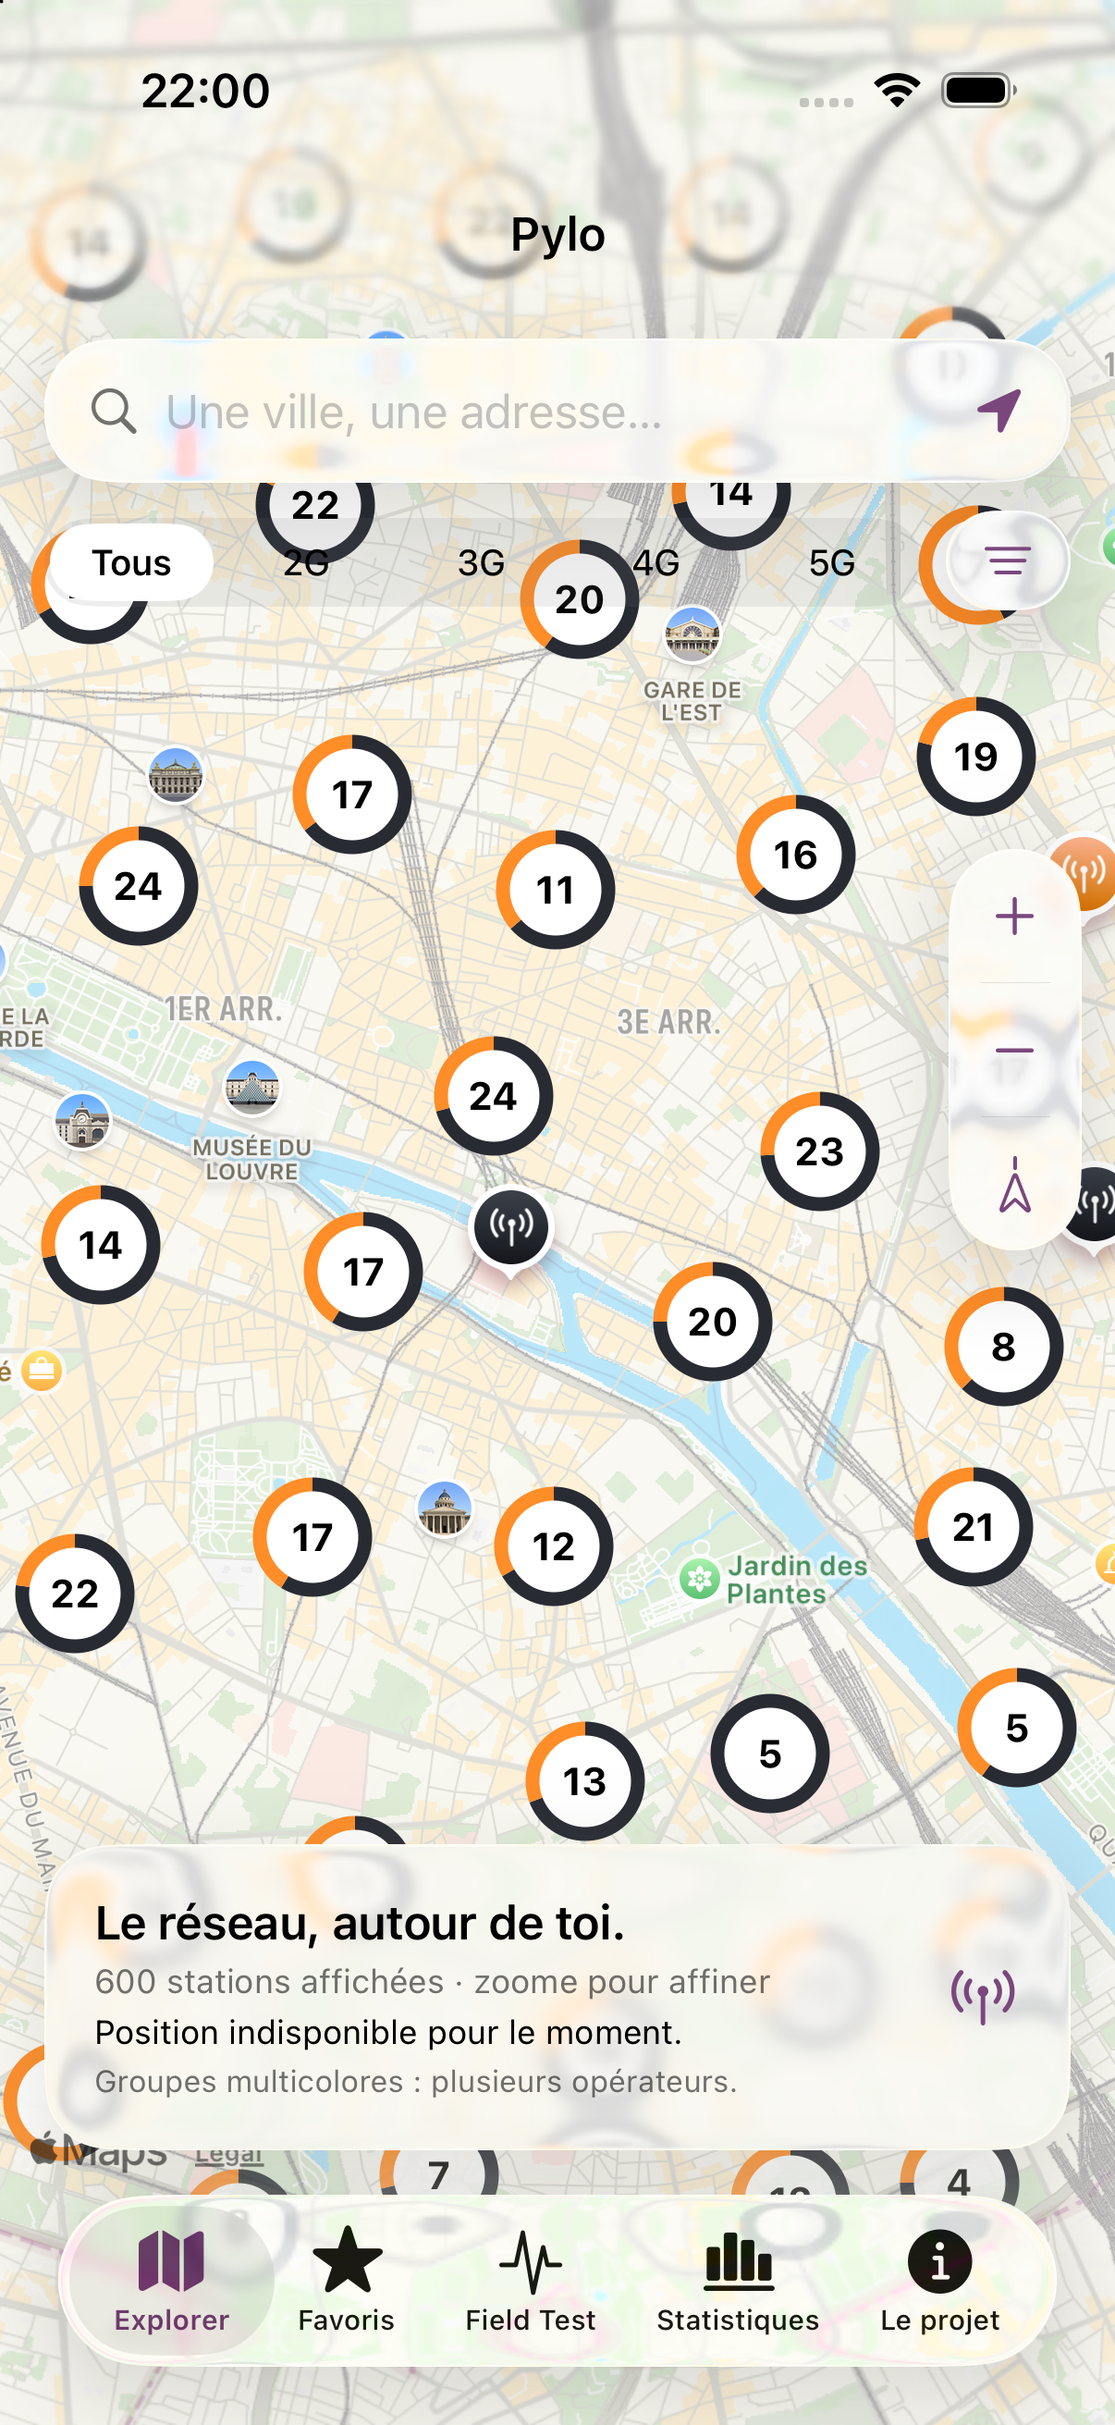
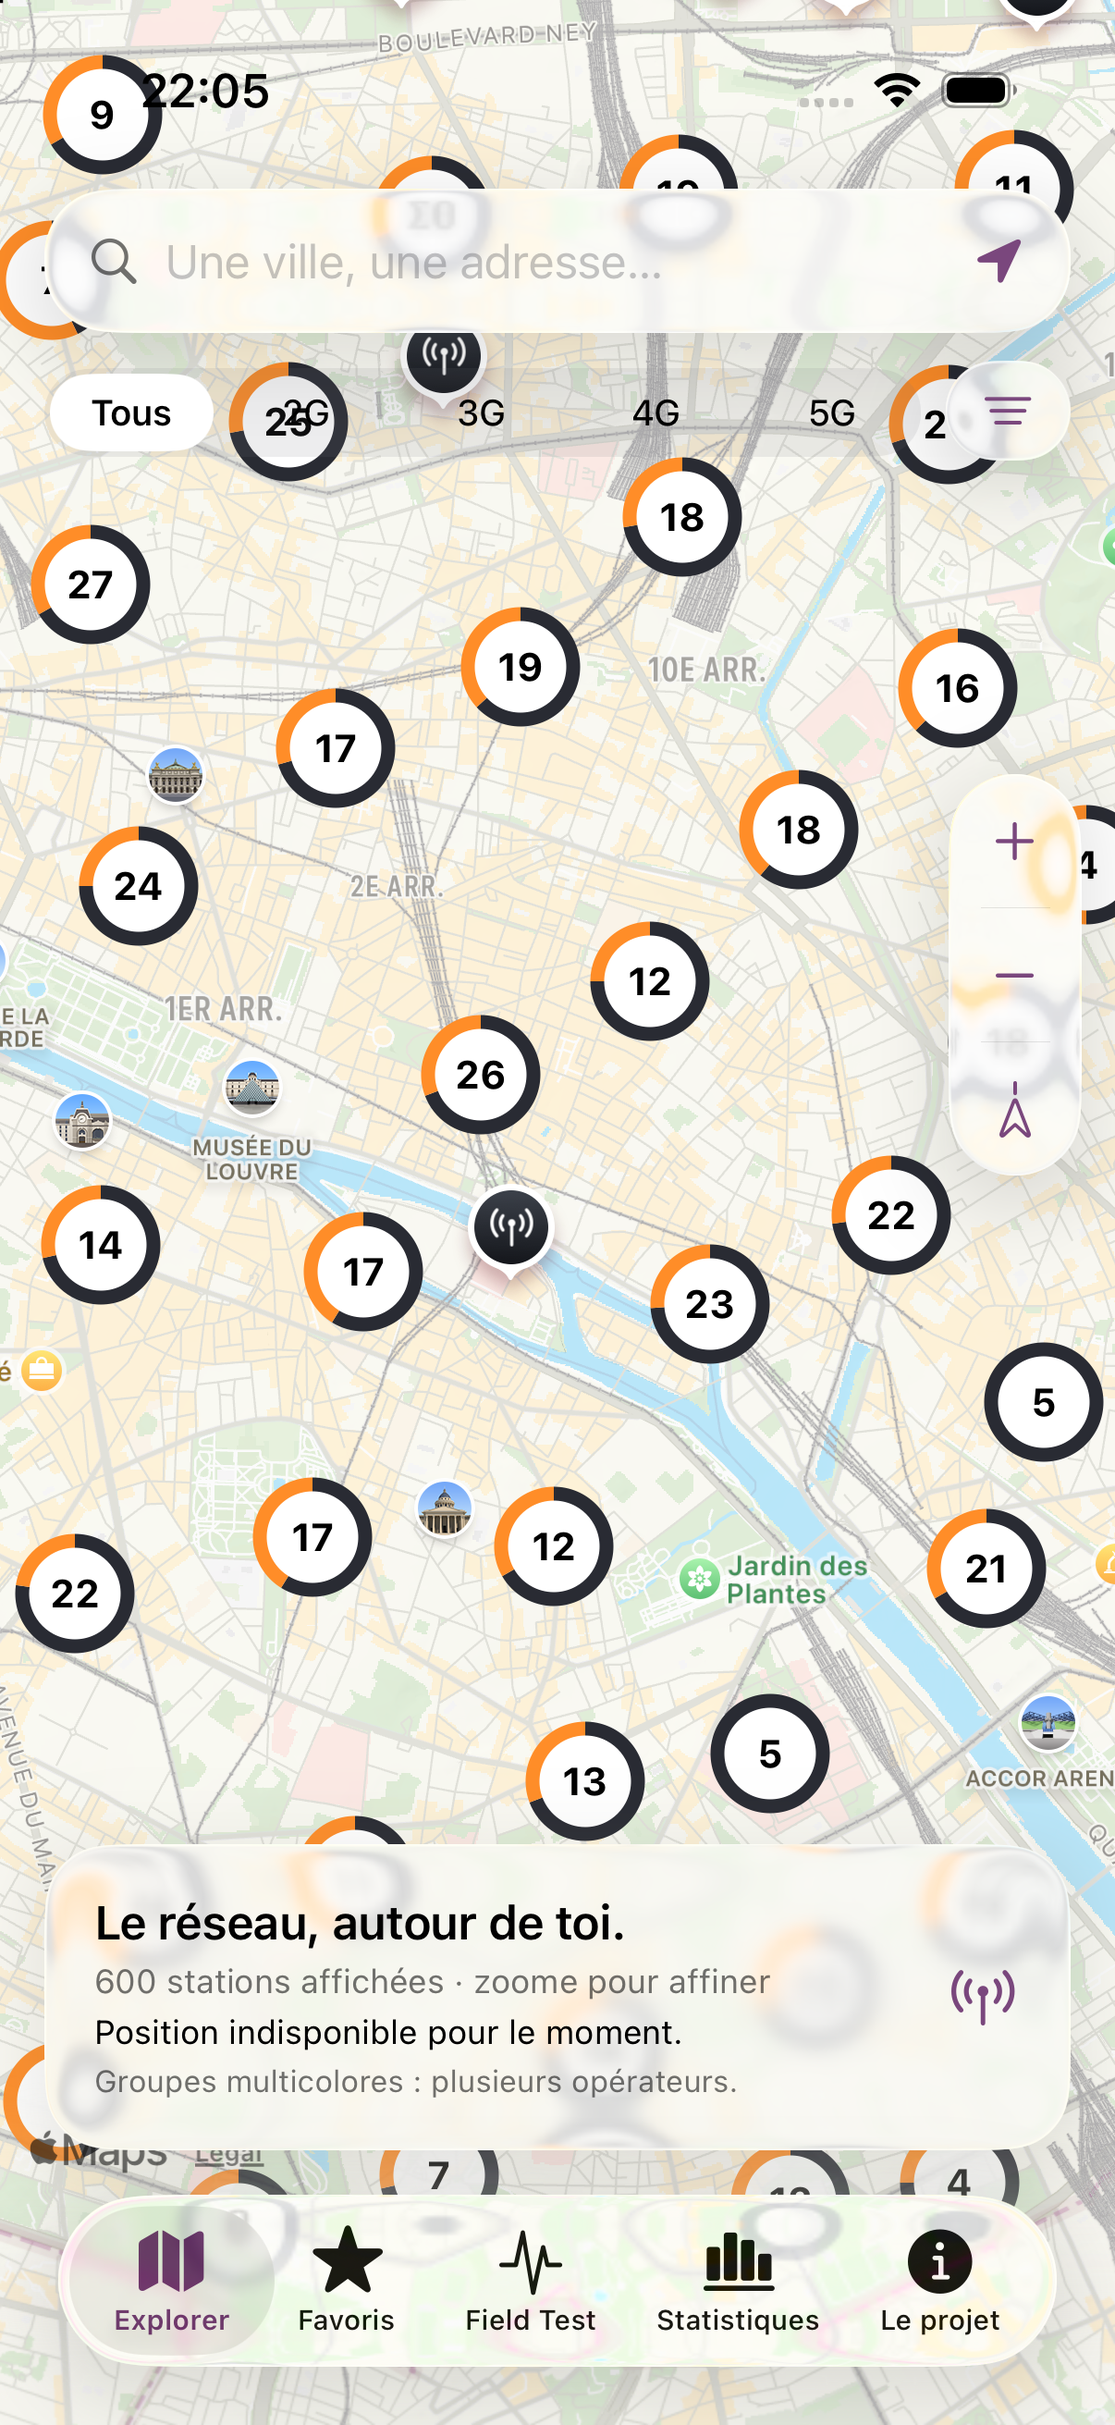
Retirer le bandeau de carte et ancrer les orientations aux repères

diff --git a/App/NativeAntennaMap.swift b/App/NativeAntennaMap.swift
@@ -28,6 +28,16 @@ struct NativeAntennaMap: UIViewRepresentable {
         map.isZoomEnabled = true; map.isScrollEnabled = true; map.isRotateEnabled = true; map.isPitchEnabled = true
         map.showsUserLocation = true; map.showsCompass = true; map.showsScale = true
         map.preferredConfiguration = MKStandardMapConfiguration(elevationStyle: .flat, emphasisStyle: .muted)
+        let directionsLayer = OrientationLayer()
+        directionsLayer.translatesAutoresizingMaskIntoConstraints = false
+        map.addSubview(directionsLayer)
+        NSLayoutConstraint.activate([
+            directionsLayer.leadingAnchor.constraint(equalTo: map.leadingAnchor),
+            directionsLayer.trailingAnchor.constraint(equalTo: map.trailingAnchor),
+            directionsLayer.topAnchor.constraint(equalTo: map.topAnchor),
+            directionsLayer.bottomAnchor.constraint(equalTo: map.bottomAnchor)
+        ])
+        context.coordinator.directionsLayer = directionsLayer
         map.register(MKMarkerAnnotationView.self, forAnnotationViewWithReuseIdentifier: "station")
         map.register(MKAnnotationView.self, forAnnotationViewWithReuseIdentifier: MKMapViewDefaultClusterAnnotationViewReuseIdentifier)
         return map
@@ -45,7 +55,7 @@ struct NativeAntennaMap: UIViewRepresentable {
     static func dismantleUIView(_ map: MKMapView, coordinator: Coordinator) {
         coordinator.refreshTask?.cancel()
         map.delegate = nil
-        map.removeOverlays(map.overlays)
+        coordinator.directionsLayer?.removeFromSuperview()
     }
     @MainActor final class Coordinator: NSObject, MKMapViewDelegate {
         var parent: NativeAntennaMap
@@ -54,8 +64,7 @@ struct NativeAntennaMap: UIViewRepresentable {
         var commandID: UUID?
         var moving = false
         var refreshTask: Task<Void, Never>?
-        var orientationOverlay: OrientationOverlay?
-        var renderedArrows: [OrientationArrow] = []
+        weak var directionsLayer: OrientationLayer?
         var imageCache: [String: UIImage] = [:]
         init(_ parent: NativeAntennaMap) { self.parent = parent }
         func applyStations(_ map: MKMapView) {
@@ -72,8 +81,8 @@ struct NativeAntennaMap: UIViewRepresentable {
         func scheduleDirections(_ map: MKMapView) {
             refreshTask?.cancel()
             if !parent.showDirections {
-                if let orientationOverlay { map.removeOverlay(orientationOverlay) }
-                orientationOverlay = nil; renderedArrows = []
+                directionsLayer?.arrows = []
+                directionsLayer?.isHidden = true
                 return
             }
             refreshTask = Task { @MainActor [weak self, weak map] in
@@ -86,22 +95,29 @@ struct NativeAntennaMap: UIViewRepresentable {
                     return view.superview != nil && !view.isHidden && view.alpha > 0.1
                 }.map(\.station)
                 let arrows = OrientationPlan.make(stations: visible, directions: self.parent.directions, latitude: map.centerCoordinate.latitude, longitude: map.centerCoordinate.longitude)
-                if arrows == self.renderedArrows, let overlay = self.orientationOverlay, overlay.boundingMapRect.contains(map.visibleMapRect) {
-                    map.renderer(for: overlay)?.alpha = 1
-                    return
+                guard let layer = self.directionsLayer else { return }
+                layer.arrows = arrows.compactMap { arrow in
+                    guard let annotation = self.annotations[arrow.stationID], let view = map.view(for: annotation) else { return nil }
+                    // Anchor to the round head of the marker, not the pin tip underneath it.
+                    let anchor = view.convert(CGPoint(x: view.bounds.midX, y: min(view.bounds.midY, view.bounds.minY + view.bounds.width / 2)), to: layer)
+                    let coordinate = annotation.coordinate
+                    let radians = arrow.azimuth * .pi / 180
+                    let reference = CLLocationCoordinate2D(latitude: coordinate.latitude + cos(radians)*0.001, longitude: coordinate.longitude + sin(radians)*0.001/max(0.05,cos(coordinate.latitude * .pi/180)))
+                    let origin = map.convert(coordinate, toPointTo: layer)
+                    let projected = map.convert(reference, toPointTo: layer)
+                    let dx = projected.x-origin.x, dy = projected.y-origin.y
+                    let magnitude = hypot(dx,dy)
+                    guard magnitude.isFinite, magnitude > 0 else { return nil }
+                    let ux = dx/magnitude, uy = dy/magnitude
+                    return ScreenOrientation(start: CGPoint(x: anchor.x+ux*21,y: anchor.y+uy*21), end: CGPoint(x: anchor.x+ux*51,y: anchor.y+uy*51), color: UIColor(Palette.operatorColor(arrow.operatorName)))
                 }
-                if let old = self.orientationOverlay { map.removeOverlay(old) }
-                self.renderedArrows = arrows
-                self.orientationOverlay = nil
-                guard !arrows.isEmpty else { return }
-                let overlay = OrientationOverlay(arrows: arrows, rect: map.visibleMapRect)
-                self.orientationOverlay = overlay
-                map.addOverlay(overlay, level: .aboveRoads)
+                layer.isHidden = false
+                map.bringSubviewToFront(layer)
             }
         }
         func mapView(_ mapView: MKMapView, regionWillChangeAnimated animated: Bool) {
             moving = true; refreshTask?.cancel()
-            if let orientationOverlay { mapView.renderer(for: orientationOverlay)?.alpha = 0 }
+            directionsLayer?.isHidden = true
         }
         func mapView(_ mapView: MKMapView, regionDidChangeAnimated animated: Bool) {
             moving = false
@@ -137,10 +153,6 @@ struct NativeAntennaMap: UIViewRepresentable {
             parent.onSelection(members.sorted { $0.operatorName < $1.operatorName })
             mapView.deselectAnnotation(annotation, animated: false)
         }
-        func mapView(_ mapView: MKMapView, rendererFor overlay: any MKOverlay) -> MKOverlayRenderer {
-            guard let orientations = overlay as? OrientationOverlay else { return MKOverlayRenderer(overlay: overlay) }
-            return OrientationRenderer(overlay: orientations)
-        }
         private func clusterImage(_ members: [Station]) -> UIImage {
             let groups = Dictionary(grouping: members, by: \.operatorName).mapValues(\.count)
             let names = groups.keys.sorted()
@@ -167,39 +179,43 @@ struct NativeAntennaMap: UIViewRepresentable {
     }
 }
 
-/// One lightweight layer; arrow length stays constant on screen instead of expanding on zoom.
-final class OrientationOverlay: NSObject, MKOverlay {
-    let arrows: [OrientationArrow]
-    let boundingMapRect: MKMapRect
-    var coordinate: CLLocationCoordinate2D { MKMapPoint(x: boundingMapRect.midX, y: boundingMapRect.midY).coordinate }
-    init(arrows: [OrientationArrow], rect: MKMapRect) { self.arrows = arrows; boundingMapRect = rect.insetBy(dx: -rect.width * 0.1, dy: -rect.height * 0.1) }
+/// Screen-space paths avoid map tile scaling and stay attached to the actual marker head.
+struct ScreenOrientation {
+    let start: CGPoint
+    let end: CGPoint
+    let color: UIColor
 }
-final class OrientationRenderer: MKOverlayRenderer {
-    private let arrows: [OrientationArrow]
-    private let colors: [CGColor]
-    init(overlay: OrientationOverlay) {
-        arrows = overlay.arrows
-        colors = overlay.arrows.map { UIColor(Palette.operatorColor($0.operatorName)).cgColor }
-        super.init(overlay: overlay)
+final class OrientationLayer: UIView {
+    var arrows: [ScreenOrientation] = [] { didSet { setNeedsDisplay() } }
+    init() {
+        super.init(frame: .zero)
+        backgroundColor = .clear; isOpaque = false; isUserInteractionEnabled = false
+        isAccessibilityElement = false; isHidden = true
+        contentMode = .redraw
     }
-    override func draw(_ mapRect: MKMapRect, zoomScale: MKZoomScale, in context: CGContext) {
-        guard zoomScale.isFinite, zoomScale > 0 else { return }
-        let scale = 1 / zoomScale
-        context.setLineWidth(1.6 * scale)
+    required init?(coder: NSCoder) { fatalError("init(coder:) has not been implemented") }
+    override func draw(_ rect: CGRect) {
+        guard let context = UIGraphicsGetCurrentContext() else { return }
         context.setLineCap(.round); context.setLineJoin(.round)
-        let length = 30 * scale, head = 5 * scale, inset = 10 * scale
-        for (index, arrow) in arrows.enumerated() {
-            let origin = point(for: MKMapPoint(CLLocationCoordinate2D(latitude: arrow.latitude, longitude: arrow.longitude)))
-            let radians = arrow.azimuth * .pi / 180
-            let dx = sin(radians), dy = -cos(radians)
-            let start = CGPoint(x: origin.x + dx * inset, y: origin.y + dy * inset)
-            let end = CGPoint(x: start.x + dx * length, y: start.y + dy * length)
-            context.setStrokeColor(colors[index])
-            context.move(to: start); context.addLine(to: end)
-            context.move(to: CGPoint(x: end.x - dx * head + dy * head * 0.6, y: end.y - dy * head - dx * head * 0.6))
-            context.addLine(to: end)
-            context.addLine(to: CGPoint(x: end.x - dx * head - dy * head * 0.6, y: end.y - dy * head + dx * head * 0.6))
-            context.strokePath()
+        for arrow in arrows {
+            let dx = arrow.end.x-arrow.start.x, dy = arrow.end.y-arrow.start.y
+            let magnitude = hypot(dx,dy)
+            guard magnitude > 0 else { continue }
+            let ux = dx/magnitude, uy = dy/magnitude
+            let path = CGMutablePath()
+            path.move(to: arrow.start); path.addLine(to: arrow.end)
+            let head = CGMutablePath()
+            head.move(to: arrow.end)
+            head.addLine(to: CGPoint(x: arrow.end.x-ux*8+uy*4.5,y: arrow.end.y-uy*8-ux*4.5))
+            head.addLine(to: CGPoint(x: arrow.end.x-ux*8-uy*4.5,y: arrow.end.y-uy*8+ux*4.5))
+            head.closeSubpath()
+            context.setStrokeColor(UIColor.white.withAlphaComponent(0.95).cgColor)
+            context.setLineWidth(5)
+            context.addPath(path); context.strokePath()
+            context.addPath(head); context.strokePath()
+            context.setStrokeColor(arrow.color.cgColor); context.setLineWidth(2.5)
+            context.addPath(path); context.strokePath()
+            context.setFillColor(arrow.color.cgColor); context.addPath(head); context.fillPath()
         }
     }
 }

diff --git a/App/AppStore.swift b/App/AppStore.swift
@@ -43,11 +43,7 @@ import MapKit
             let result = try await Task.detached(priority: .userInitiated) {
                 let db = try AntennaDatabase(url: url)
                 let stations = try db.stations(south: r.center.latitude-r.span.latitudeDelta/2, north: r.center.latitude+r.span.latitudeDelta/2, west: r.center.longitude-r.span.longitudeDelta/2, east: r.center.longitude+r.span.longitudeDelta/2, generation: g, operatorName: op)
-                let directions = Dictionary(uniqueKeysWithValues: stations.sorted { a,b in
-                    pow(a.latitude-r.center.latitude,2) + pow(a.longitude-r.center.longitude,2) < pow(b.latitude-r.center.latitude,2) + pow(b.longitude-r.center.longitude,2)
-                }.prefix(36).map { station in
-                    (station.id, ((try? db.supports(for: station.id)) ?? []).first(where: { $0.id == station.supportID })?.azimuths ?? [])
-                })
+                let directions = (try? db.primaryDirections(for: stations.map(\.id))) ?? [:]
                 return (stations, directions)
             }.value
             guard request == token else { return }

diff --git a/Sources/PyloCore/Database.swift b/Sources/PyloCore/Database.swift
@@ -62,6 +62,13 @@ public final class AntennaDatabase {
             AntennaSupport(id: $0[0], height: $0[1], latitude: Double($0[2]) ?? 0, longitude: Double($0[3]) ?? 0, azimuths: Array(Set($0[4].split(separator: "|").compactMap { Double($0) }.filter { (0..<360).contains($0) })).sorted())
         }
     }
+    public func primaryDirections(for stationIDs: [String]) throws -> [String: [Double]] {
+        guard !stationIDs.isEmpty else { return [:] }
+        let ids = stationIDs.prefix(600).map(quote).joined(separator: ",")
+        return Dictionary(uniqueKeysWithValues: try rows("SELECT p.stationID,p.azimuths FROM supports p JOIN stations s ON p.stationID=s.id AND p.supportID=s.supportID WHERE s.id IN (\(ids))").map { row in
+            (row[0], Array(Set(row[1].split(separator: "|").compactMap { Double($0) }.filter { $0.isFinite && (0..<360).contains($0) })).sorted())
+        })
+    }
     public func recordComparison(previous: URL) throws {
         let old = try AntennaDatabase(url: previous)
         guard try old.rows("PRAGMA user_version").first?.first == "2" else { return }

diff --git a/App/ContentView.swift b/App/ContentView.swift
@@ -107,8 +107,7 @@ struct ExplorerView: View {
                     if store.loading { ProgressView() } else { Image(systemName: "antenna.radiowaves.left.and.right").foregroundStyle(Palette.accent).font(.title2) }
                 }.padding(18).pyloGlass().padding()
             }
-            .navigationTitle("Pylo").navigationBarTitleDisplayMode(.inline)
-            .toolbarBackground(.hidden, for: .navigationBar)
+            .toolbar(.hidden, for: .navigationBar)
             .sheet(item: $selected) { cluster in
                 if cluster.stations.count == 1, let station = cluster.stations.first {
                     StationDetail(station: station).presentationDetents([.medium,.large])

diff --git a/Tests/PyloCoreTests/PyloCoreTests.swift b/Tests/PyloCoreTests/PyloCoreTests.swift
@@ -54,6 +54,9 @@ final class PyloCoreTests: XCTestCase {
         try db.finishImport()
         XCTAssertEqual(try db.systems(for: "station").first?.azimuths, [140,220,280])
         XCTAssertEqual(try db.supports(for: "station").count, 2)
+        XCTAssertEqual(try db.primaryDirections(for: ["station"])["station"], [280])
+        XCTAssertTrue(try db.primaryDirections(for: ["unknown' OR 1=1 --"]).isEmpty)
+        XCTAssertTrue(try db.primaryDirections(for: []).isEmpty)
         XCTAssertEqual(try db.statistics().supportCount, 2)
         XCTAssertEqual(try db.statistics().systemCount, 1)
     }

diff --git a/docs/MAINTENANCE.md b/docs/MAINTENANCE.md
@@ -26,3 +26,9 @@ La carte utilise MKMapView et ses regroupements natifs pour conserver les gestes
 Les orientations de la carte sont désormais dessinées dans une seule couche légère, avec des flèches de 30 points et un trait de 1,6 point, indépendants du niveau de zoom. Elles s’effacent pendant le mouvement et reviennent après 360 ms de repos. Seuls les marqueurs individuels visibles sont concernés, avec au plus 12 stations et 48 flèches au total (six directions maximum par station sur la carte). Les directions complètes restent consultables dans la fiche.
 
 Les mises à jour de marqueurs sont différées pendant un geste. Les images de regroupement sont réutilisées dans un cache borné à 200 entrées. Le plan d’orientations est testé pour sa limite, son ordre de proximité et l’élimination des doublons/angles invalides.
+
+### Ancrage des flèches
+
+Les flèches sont dessinées dans un UIView transparent au-dessus de la carte. Leur point de départ est calculé depuis la tête du MKMarkerAnnotationView. Leur direction est projetée depuis les coordonnées géographiques via MapKit pour suivre la rotation et l’inclinaison de la carte. Le trait coloré fait 2,5 points avec un contour clair de 5 points ; sa partie visible fait 30 points. La couche est cachée pendant les gestes et reste limitée à 48 flèches.
+
+Les orientations des supports principaux de toutes les stations chargées sont récupérées dans une seule requête SQLite. Ne pas limiter ce chargement aux premières stations : des marqueurs isolés visibles pourraient sinon ne jamais avoir de flèches. La barre de navigation est entièrement masquée uniquement sur la page Explorer.

diff --git a/README.md b/README.md
@@ -49,7 +49,9 @@ Les fiches séparent les informations au lieu de mélanger toutes les bandes dan
 
 Une station peut être rattachée à plusieurs supports : Pylo les conserve et les distingue. Le repère de carte et la distance utilisent le premier support enregistré ; la fiche liste les supports disponibles.
 
-Les flèches d’orientation sur la carte sont petites et gardent la même taille à l’écran. Elles s’effacent pendant le déplacement ou le zoom, puis reviennent après l’arrêt. Pour alléger le rendu, elles concernent seulement les stations individuelles visibles : **12 stations et 48 flèches maximum**, avec six directions au plus par station sur la carte. La fiche garde les directions complètes.
+La page carte n’affiche pas de titre ni de bandeau de navigation au-dessus de la recherche.
+
+Les flèches d’orientation sont attachées à la tête des repères et gardent la même taille à l’écran. Un fin contour clair les distingue du fond, y compris pour les couleurs sombres. Elles s’effacent pendant le déplacement ou le zoom, puis reviennent après l’arrêt. Pour alléger le rendu, elles concernent seulement les stations individuelles visibles : **12 stations et 48 flèches maximum**, avec six directions au plus par station sur la carte. La fiche garde les directions complètes.
 
 **Ces flèches montrent une orientation, pas une portée ni une zone de couverture.** La distance, les murs, le relief, les interférences et la charge du réseau jouent tous sur la réception. Pylo explique ces limites et ne transforme pas une distance en faux niveau de signal.
 
